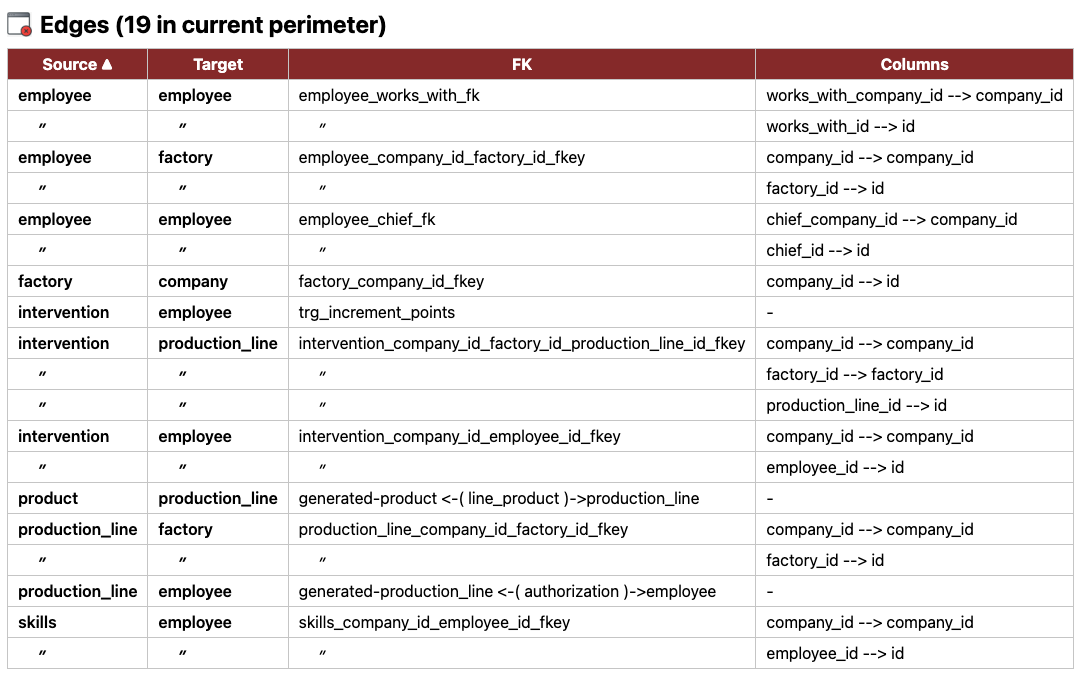
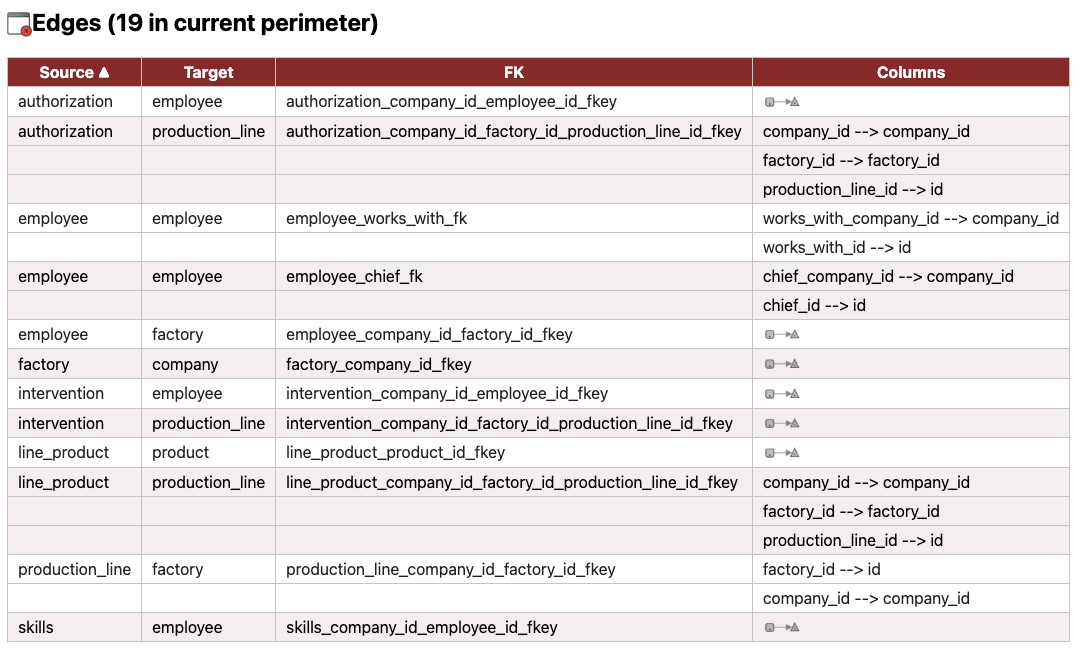
refacto list pages

Changed region(s): [[0.0, 0.0, 1.0, 0.9925], [0.9769, 0.6015, 1.0, 0.9624], [0.9769, 0.5113, 1.0, 0.5714]]

diff --git a/public/js/ui/html.js b/public/js/ui/html.js
@@ -108,6 +108,7 @@ export function listNodesToHtml() {
 
   // ---- BODY ----
   const body = doc.body;
+  body.className = "alt-body";
   body.textContent = ""; // nettoie le body
 
   // titre + bouton close
@@ -314,6 +315,7 @@ export function sendEdgeListToHtml() {
   });
 
   // Open window and build DOM
+  
   const win = window.open("", "edgeListWindow");
   const doc = win.document;
 
@@ -323,8 +325,6 @@ export function sendEdgeListToHtml() {
   meta.setAttribute("charset", "UTF-8");
   doc.head.appendChild(meta);
 
-  const style = doc.createElement("style");
-
   // styles
   const link = doc.createElement("link");
   link.rel = "stylesheet";
@@ -332,6 +332,7 @@ export function sendEdgeListToHtml() {
   doc.head.appendChild(link);
   // BODY
   const body = doc.body;
+  body.className = "alt-body";
   body.textContent = "";
 
   // Title + close button
@@ -354,10 +355,10 @@ export function sendEdgeListToHtml() {
 
   const thead = doc.createElement("thead");
   const thr = doc.createElement("tr");
-  let tablo =   ["Source", "Target", "FK"];
+  let tablo = ["Source", "Target", "FK"];
   if (true) tablo.push("Columns");
 
-tablo.forEach((h) => {
+  tablo.forEach((h) => {
     const th = doc.createElement("th");
     th.textContent = h;
     thr.appendChild(th);
@@ -370,28 +371,34 @@ tablo.forEach((h) => {
   body.appendChild(table);
 
   // Fill rows
+  let rowColor = "one";
   // Après rowsData.sort(...), avant la boucle d'insertion des <tr> :
   let lastTriple = { s: null, t: null, f: null };
 
   rowsData.forEach(({ sourceName, targetName, fkLabel, columns }) => {
     const tr = doc.createElement("tr");
-
+    tr.className = rowColor;
     const sameAsAbove =
       lastTriple.s === sourceName &&
       lastTriple.t === targetName &&
       lastTriple.f === fkLabel;
+
+    if (!sameAsAbove) {
+      rowColor = (rowColor === "one" ? "two" : "one");
+      tr.className = rowColor;
+    }
 
     // --- Source ---
     const tdSource = doc.createElement("td");
     tdSource.className = "link";
     tdSource.dataset.value = sourceName;
     if (sameAsAbove) {
-      tdSource.textContent = "〃";
+      tdSource.textContent = "";
       tdSource.classList.add("repeat-marker");
     } else {
       tdSource.textContent = sourceName;
     }
-    //tdSource.textContent = sameAsAbove ? '〃' : sourceName;
+
 
     tdSource.title = `Open table: ${sourceName}`;
     tdSource.addEventListener("click", () =>
@@ -409,7 +416,7 @@ tablo.forEach((h) => {
     tdTarget.className = "link";
     tdTarget.dataset.value = targetName;
     if (sameAsAbove) {
-      tdTarget.textContent = "〃";
+      tdTarget.textContent = "";
       tdTarget.classList.add("repeat-marker");
     } else {
       tdTarget.textContent = targetName;
@@ -432,28 +439,25 @@ tablo.forEach((h) => {
     tdFk.dataset.value = fkLabel || "";
 
     if (sameAsAbove) {
-      tdFk.textContent = "〃";
+      tdFk.textContent = "";
       tdFk.classList.add("repeat-marker");
     } else {
       tdFk.textContent = fkLabel || "-";
     }
-    // pour le tri
-    //tdFk.textContent = sameAsAbove ? '〃' : (fkLabel || "-");
+
+
     tr.appendChild(tdFk);
 
     // --- Columns ---
     const tdCols = doc.createElement("td");
     tdCols.className = "text";
-if (columns !=""){
-tdCols.textContent = columns;
-} else {
-  const symbol = `<img src ="./img/onePerFk.png" width="40px" title="1 edge per fk">`;
-  tdCols.innerHTML = symbol;
-}
+    if (columns != "") {
+      tdCols.textContent = columns;
+    } else {
+      const symbol = `<img src ="./img/onePerFk.png" width="40px" title="1 edge per fk">`;
+      tdCols.innerHTML = symbol;
+    }
 
-
-    
-    
     tr.appendChild(tdCols);
 
     tbody.appendChild(tr);

diff --git a/public/css/table.css b/public/css/table.css
@@ -9,12 +9,13 @@
       margin-bottom: 1rem;
     } */
 
-#headerBar h1 {
-  margin: 0; /* supprime marge par défaut */
-}
+  #headerBar h1 {
+    margin: 0;
+    /* supprime marge par défaut */
+  }
 
 
-    
+
   table {
     border-collapse: collapse;
     width: 100%;
@@ -29,12 +30,13 @@
   }
 
   th {
-    background-color: #f8f8f8;
+    background-color: #dfdddd;
     text-align: left;
+    color: black;
   }
 
   td {
-    background-color: #fff;
+    background-color: #ffffff;
   }
 
   .fkContainer {
@@ -58,11 +60,17 @@
     max-width: 100%;
   }
 
-  .pk-block{
-    margin-bottom: 1rem;
-  }
+.fk-block,
+.pk-block {
+  margin-bottom: 1.5em;
+  border: 1px solid #ccc;
+  border-radius: 5px;
+  padding: 1em;
+  background-color: #f9f9f9;
+}
 
-  .fk-block, .pk-block {
+  .fk-block,
+  .pk-block {
     margin-bottom: 1rem;
     display: block;
     /* ou flex, mais avec min-width:0 */
@@ -90,10 +98,12 @@
     max-width: 100%;
     /* ne dépasse pas l'écran */
   }
-#tableInfo h2 {
-  margin-top: 0.3em;   /* petit espace */
-  margin-bottom: 0.3em;
-}
+
+  #tableInfo h2 {
+    margin-top: 0.3em;
+    /* petit espace */
+    margin-bottom: 0.3em;
+  }
 
   .half,
   .third {
@@ -101,8 +111,13 @@
     /* largeur = contenu, pas d'étirement */
     min-width: 400px;
   }
-/* la colonne FK peut grandir */
-.half.fk-fluid { flex: 1 1 auto; min-width: 300px; }
+
+  /* la colonne FK peut grandir */
+  .half.fk-fluid {
+    flex: 1 1 auto;
+    min-width: 300px;
+    
+  }
 
   .index-block,
   .pk-block,

diff --git a/public/css/style.css b/public/css/style.css
@@ -223,29 +223,23 @@ button:hover {
 
 
 
-#foreignKeysContainer {
-  font-family: Arial, sans-serif;
-  padding: 1em;
-}
-
-.fk-block,
-.pk-block {
-  margin-bottom: 1.5em;
-  border: 1px solid #ccc;
-  border-radius: 5px;
-  padding: 1em;
-  background-color: #f9f9f9;
-}
+/* 
 
 .fk-title {
   font-weight: bold;
   font-size: 1.2em;
   margin-bottom: 0.5em;
 }
+ */
+/* 
+#foreignKeysContainer {
+  font-family: Arial, sans-serif;
+  padding: 1em;
+}
 
 #foreignKeysContainer ul {
   padding-left: 1.2em;
-}
+} */
 
 #spacingControls span {
   display: flex;
@@ -465,9 +459,22 @@ html.busy, html.busy * { cursor: wait !important; }
 */
 
   table { border-collapse: collapse; cursor: pointer; }
-  th, td { padding: 5px 10px; border: 1px solid #ccc; color:grey;}
+  th { padding: 5px 10px; border: 1px solid #ccc; color:grey;}
+  td { padding: 5px 10px; border: 1px solid #ccc; color:grey;}
   th {background-color: #8e2e2e; color: white}
+
   td.num { text-align: left; padding-left:30px; }
   td.asc { text-align: center;color:black; font-weight: bold;}
   th.sort-asc::after { content: " ▲"; }
   th.sort-desc::after { content: " ▼"; }
+  tr.one { background-color: #efefef;}
+  tr.one td { color:black}
+  tr.two {background-color:white }
+  tr.two td { color :rgb(42, 37, 37)}
+/*
+ body for generated pages
+*/
+  body.alt-body {
+  font-family: system-ui, sans-serif;
+  margin: 20px; /* ou autre mise en forme */
+}

diff --git a/public/docs/menuEdgesSelectHide.md b/public/docs/menuEdgesSelectHide.md
@@ -154,15 +154,20 @@ Generates an HTML file with details of edges in the current perimeter.
 
 The **Source**, **Target**, and **FK** headers allow sorting.  
 
-#### Mode *One edge per FK*
+#### Mode *One edge per FK* 
 
-<img src="./img/edgesList.png" width="600px" style="border: 1px solid grey;"/>  
+<img src="./img/edgesList.png" width="600px" style="border: 1px solid grey;"/>    
+ When an edge is in mode *1 Edge per FK* a straight line symbol  remains this mode 
+<img src ="../../img/onePerFk.png" width="50px">   
 
-#### Mode *One edge per Column*
+
+#### Mode *One edge per Column*  
+
+For edges in mode *1 edge per column* the list show corresponding columns names on successive lines.    
+Edges in *1 per FK* have the straight line symbol in place of columns.   
 
 <img src="./img/edgesListPerColumn.png" width="700px" style="border: 1px solid grey;"/>  
 
-For illustration purposes, the upper image kept simplified associations (line_product, authorization).  
 
 ---
 
